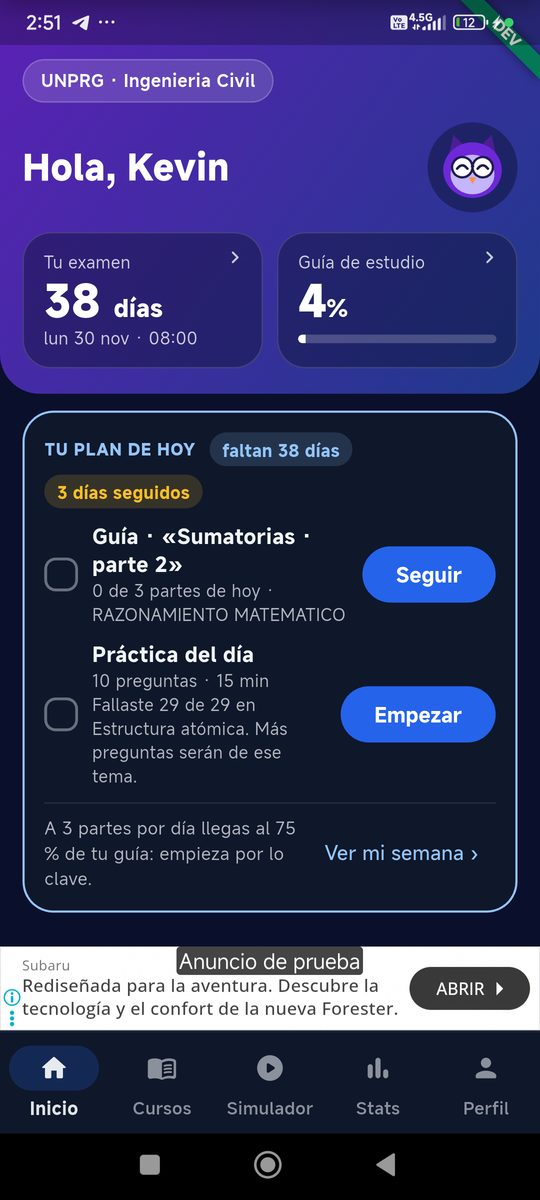
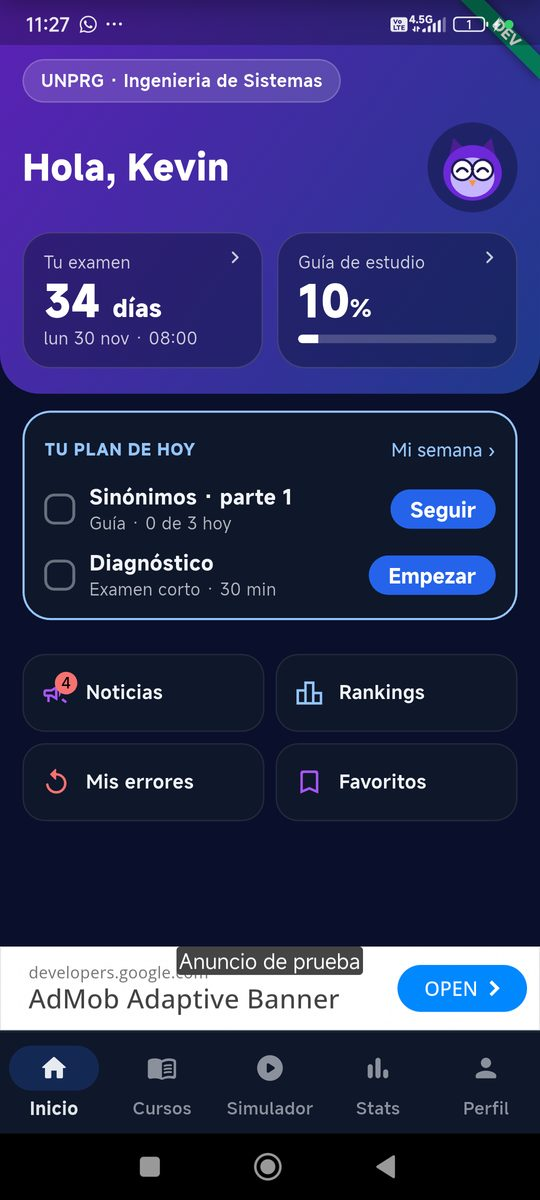
Guías: «Tu plan de hoy» compacta con capturas nuevas

diff --git a/docs/guias/guia_app.html b/docs/guias/guia_app.html
@@ -89,10 +89,10 @@
 </table></div>
 
 <div class="screen" id="inicio-plan-hoy">
-  <figure><img src="img/ini-plan-hoy.jpg" alt="Inicio con Tu plan de hoy"><figcaption>Inicio con plan (TEST, 23-oct-2026).</figcaption></figure>
+  <figure><img src="img/ini-plan-hoy.jpg" alt="Inicio con Tu plan de hoy"><figcaption>Inicio con plan, tarjeta compacta (TEST, 27-oct-2026).</figcaption></figure>
   <div class="body">
     <h3>Tu plan de hoy (con plan)</h3>
-    <p>Si el alumno tiene meta, bajo la cabecera aparece la misma tarjeta «TU PLAN DE HOY» que en el Simulador (ver <a href="#sim-plan">Tu plan de hoy</a>): la parte de la guía que toca, la práctica del día y el ritmo. Sin meta no aparece y el ritmo sigue en la cabecera.</p>
+    <p>Si el alumno tiene meta, bajo la cabecera aparece la misma tarjeta «TU PLAN DE HOY» que en el Simulador (ver <a href="#sim-plan">Tu plan de hoy</a>): la parte de la guía que toca y la práctica del día. En el Inicio no lleva el chip «faltan {n} días» (ya está en «Tu examen», justo arriba). Sin meta no aparece y el ritmo sigue en la cabecera.</p>
   </div>
 </div>
 
@@ -512,22 +512,21 @@ flowchart LR
 
 <div class="screen two" id="sim-plan">
   <figure><img src="img/sim-inicio-sinplan.jpg" alt="Arma tu plan"><figcaption>Sin meta: «Arma tu plan».</figcaption></figure>
-  <figure><img src="img/sim-inicio-plan.jpg" alt="Tu plan de hoy en el Simulador"><figcaption>Con meta: «Tu plan de hoy» (TEST, 23-oct-2026).</figcaption></figure>
+  <figure><img src="img/sim-inicio-plan.jpg" alt="Tu plan de hoy en el Simulador"><figcaption>Con meta: «Tu plan de hoy» compacta (TEST, 27-oct-2026).</figcaption></figure>
   <div class="body">
     <h3>Tu plan de hoy</h3>
-    <p>Sin meta se ve «Arma tu plan» · «Te diré qué practicar cada día según tus errores. Siempre podrás elegir otro examen.» · «Crear mi plan» (abre Tu meta). Con meta, la tarjeta «TU PLAN DE HOY» (también en el Inicio) junta lo que toca hoy:</p>
+    <p>Sin meta se ve «Arma tu plan» · «Te diré qué practicar cada día según tus errores. Siempre podrás elegir otro examen.» · «Crear mi plan» (abre Tu meta). Con meta, la tarjeta «TU PLAN DE HOY» (también en el Inicio) junta lo que toca hoy en poco espacio: una línea de cabecera y cada tarea con un título y un detalle de una línea (lo que no cabe se corta con «…»). El ritmo está en <a href="#sim-tu-semana">Tu semana</a>; el tema débil va corto en el detalle de la práctica.</p>
     <div class="table-wrap"><table>
       <tr><th>Parte</th><th>Mensaje</th><th>Cuándo aparece</th><th>Al tocar</th></tr>
-      <tr><td class="msg">Chips</td><td class="msg">«faltan {n} días» (+ «· por confirmar») · «{n} días seguidos»</td><td>Días hasta la fecha única del examen; «tu examen es hoy» el mismo día; sin fecha no hay chip. Racha si es mayor que 0.</td><td>—</td></tr>
-      <tr><td class="msg">Guía</td><td class="msg">«Guía · «{subtema} · parte {n}»» · «{h} de {m} partes de hoy · {CURSO}» · «Seguir»</td><td>La parte que toca: la última que abriste si aún no está aprobada; si no, la primera sin aprobar empezando por los <b>cursos clave</b> del área de tu carrera y luego por peso. <code>m</code> = el ritmo de hoy; <code>h</code> = partes aprobadas hoy.</td><td>Abre esa parte.</td></tr>
-      <tr><td class="msg">Guía cumplida</td><td class="msg">«Guía de hoy lista: {n} partes» (check verde) · «Seguir»</td><td>Ya aprobaste las <code>m</code> partes de hoy.</td><td>Adelanta la siguiente.</td></tr>
-      <tr><td class="msg">Día sin guía</td><td class="msg">«Hoy no toca guía. Si quieres, adelanta.»</td><td>Hoy no es día de estudio (por los días por semana de tu meta) o es el día del simulacro.</td><td>Abre la siguiente parte.</td></tr>
-      <tr><td class="msg">Guía terminada</td><td class="msg">«¡Terminaste tu guía! Repasa con el Simulador.»</td><td>Todas las partes aprobadas.</td><td>—</td></tr>
-      <tr><td class="msg">Práctica</td><td class="msg">«Práctica del día» · «{10} preguntas · {15} min» + «¿Por qué?» · «Empezar»</td><td>Día normal sin práctica hecha. Ya hecha: «Práctica del día lista» y «Otra».</td><td>Crea «Hoy te toca», <b>siempre con reloj</b>.</td></tr>
-      <tr><td class="msg">Simulacro</td><td class="msg">«★ Simulacro» · «Un examen pasado completo, con su tiempo y puntaje.» · «Empezar»</td><td>Hoy es tu día de simulacro y no entregaste un examen pasado desde el lunes.</td><td>Abre Exámenes pasados.</td></tr>
-      <tr><td class="msg">Diagnóstico</td><td class="msg">«Diagnóstico» · «Empezar»</td><td>Tienes meta y ningún examen del Simulador entregado.</td><td>Abre el Diagnóstico.</td></tr>
-      <tr><td class="msg">Ritmo</td><td class="msg">«{n} partes por día de estudio y terminas tu guía antes del examen.» / «A {n} partes por día llegas al {p} % de tu guía: empieza por lo clave.»</td><td>Partes sin aprobar al empezar el día ÷ días de estudio hasta la víspera del examen, hacia arriba, con tope de 3 <span class="chip info">ADMIN</span> («Tope de partes por día», 1–10). Si el tope no alcanza, la segunda frase con el % de la guía que se cubre. Se recalcula cada día.</td><td>—</td></tr>
-      <tr><td class="msg">Enlace</td><td class="msg">«Ver mi semana ›»</td><td>Siempre con meta.</td><td>Abre <a href="#sim-tu-semana">Tu semana</a>.</td></tr>
+      <tr><td class="msg">Chips</td><td class="msg">«faltan {n} días» (+ «· por confirmar») · «{n} días seguidos»</td><td>Días hasta la fecha única del examen; «tu examen es hoy» el mismo día; sin fecha no hay chip; en el Inicio no se muestra. Racha si es mayor que 0.</td><td>—</td></tr>
+      <tr><td class="msg">Guía</td><td class="msg">«{subtema} · parte {n}» · «Guía · {h} de {m} hoy» · «Seguir»</td><td>La parte que toca: la última que abriste si aún no está aprobada; si no, la primera sin aprobar empezando por los <b>cursos clave</b> del área de tu carrera y luego por peso. <code>m</code> = el ritmo de hoy; <code>h</code> = partes aprobadas hoy.</td><td>Abre esa parte.</td></tr>
+      <tr><td class="msg">Guía cumplida</td><td class="msg">«{subtema} · parte {n}» · «Guía · {m} de {m} hoy» (check verde) · «Seguir» (botón con borde)</td><td>Ya aprobaste las <code>m</code> partes de hoy.</td><td>Adelanta la siguiente.</td></tr>
+      <tr><td class="msg">Día sin guía</td><td class="msg">«{subtema} · parte {n}» · «Guía · hoy descansas, puedes adelantar» · «Seguir» (botón con borde)</td><td>Hoy no es día de estudio (por los días por semana de tu meta) o es el día del simulacro.</td><td>Abre la siguiente parte.</td></tr>
+      <tr><td class="msg">Guía terminada</td><td class="msg">«¡Guía terminada!» · «Repasa con el Simulador» (check verde)</td><td>Todas las partes aprobadas.</td><td>—</td></tr>
+      <tr><td class="msg">Práctica</td><td class="msg">«Práctica del día» · «{10} preguntas · refuerza {tema}» (con tema débil y «Mostrar ¿Por qué?» encendido <span class="chip info">ADMIN</span>) o «{10} preguntas · {15} min» · «Empezar»</td><td>Día normal sin práctica hecha. Ya hecha: «Práctica del día lista» y «Otra».</td><td>Crea «Hoy te toca», <b>siempre con reloj</b>.</td></tr>
+      <tr><td class="msg">Simulacro</td><td class="msg">«★ Simulacro» · «Un examen pasado completo» · «Empezar»</td><td>Hoy es tu día de simulacro y no entregaste un examen pasado desde el lunes.</td><td>Abre Exámenes pasados.</td></tr>
+      <tr><td class="msg">Diagnóstico</td><td class="msg">«Diagnóstico» · «Examen corto · {30} min» <span class="chip info">ADMIN</span> · «Empezar»</td><td>Tienes meta y ningún examen del Simulador entregado.</td><td>Abre el Diagnóstico.</td></tr>
+      <tr><td class="msg">Enlace</td><td class="msg">«Mi semana ›» (arriba a la derecha)</td><td>Siempre con meta.</td><td>Abre <a href="#sim-tu-semana">Tu semana</a>.</td></tr>
     </table></div>
     <p><b>Días de estudio:</b> tantos días como «días a la semana» de tu meta, en este orden de preferencia: lunes, martes, jueves, viernes, miércoles, domingo, sábado; el día del simulacro no es de estudio salvo con 7 días.</p>
     <h4>El recuadro «¿Por qué?»</h4>
@@ -1122,6 +1121,7 @@ flowchart LR
   <li><b>19-oct-2026</b> · Candado del video renovado: tarjeta compacta con el degradado de la cabecera y el búho guiñando, «Desbloquea la explicación · Ganas +5 XP · te quedan 25 XP hoy», «Ver video · +5 XP» y «Premium». Ver el video completo da XP (5 por explicación, tope de 25 al día, una vez por pregunta, ajustables en el admin) y abre la explicación con el búho feliz y «¡Así se resuelve!».</li>
   <li><b>19-oct-2026</b> · Revisión por pregunta renovada (examen de parte, de dominio y Simulador): filtros «Falladas · En blanco · Correctas · Todas», mapa de casillas para saltar a cualquier pregunta, tarjeta que se entiende cerrada («Marcaste B · era C» y el inicio del enunciado), todas las alternativas marcadas al abrirla (rojo la tuya, verde la correcta, gris en blanco) y, en el Simulador, «Ver en la guía» por pregunta.</li>
   <li><b>19-oct-2026</b> · Anuncios: el banner va también en Cursos, Simulador (portada), Stats y Perfil (siete pantallas, cada una con su interruptor en Configuración → Anuncios) y se comparte entre pestañas para aparecer al instante; el anuncio de pantalla completa sale al terminar cada examen, antes del resultado (de fábrica sin espera ni primer examen libre; ambos siguen siendo ajustes del admin). App #123, admin #107.</li>
+  <li><b>27-oct-2026</b> · «Tu plan de hoy» compacta (Inicio y Simulador): cabecera en una línea con «Mi semana ›», cada tarea con título y detalle de una línea, botones más pequeños, sin la frase del ritmo (queda en Tu semana) y sin el chip de días en el Inicio. Capturas nuevas.</li>
   <li><b>23-oct-2026</b> · Plan personalizado (app #137, admin #121): fecha única del examen (universidad o mes de la meta «por confirmar»), «Tu plan de hoy» en Inicio y Simulador (parte de la guía que toca, cursos clave primero, ritmo con tope configurable, práctica del día), pantalla «Tu semana», «Tu meta» corta con vista previa del ritmo y sin recordatorio, y la práctica del día elige cursos según su peso en el área del examen. Probado en el teléfono; capturas nuevas. Corregido: «{n} %» ya no se parte en dos líneas y el chip del día del examen dice «tu examen es hoy».</li>
   <li><b>19-oct-2026</b> · Probado en el teléfono (TEST): banner de prueba en el Inicio, pantalla Premium, tarjeta del Perfil, premium regalado (sin banner), «Restaurar compras» y el aviso del tope diario de exámenes pasados; capturas reales en «Anuncios» y «Plan Premium». Corregido el banner que tomaba media pantalla y dejaba el Inicio vacío (app #122).</li>
   <li><b>19-oct-2026</b> · Plan Premium (Fase 5B de costos): tarjeta en el Perfil, pantalla <code>/profile/premium</code> con los dos planes de Google Play, restaurar compras y estado vigente; tope diario de exámenes pasados para la cuenta gratuita con aviso «Exámenes pasados de hoy»; «O hazte Premium» bajo el candado del video; el premium apaga anuncios, candados y topes. En TEST las compras siguen deshabilitadas (sin Play Console); el admin regala premium desde la ficha del alumno.</li>

diff --git a/PROGRESO.md b/PROGRESO.md
@@ -2,11 +2,12 @@
 
 > Actualizar en cada desarrollo, commit o PR (también `../iya-app/PROGRESO.md`).
 
-_Última actualización: 2026-10-23_
+_Última actualización: 2026-10-27_
 
 > **Retomar en otra máquina:** `docs/contexto_claude/README.md` tiene el punto exacto donde quedamos (2026-10-19), las reglas de trabajo, los pendientes y una copia de la memoria de Claude.
 
 ## Estado actual
+- **«Tu plan de hoy» compacta (2026-10-27, rama `codex/plan-hoy-compacto`):** solo app (detalle en `../iya-app/PROGRESO.md`). Aquí: guía de la app (tabla de la tarjeta con los textos cortos, sin la fila del ritmo, capturas `ini-plan-hoy.jpg` y `sim-inicio-plan.jpg` nuevas). Sin cambios de Functions, reglas ni configuración.
 - **Plan personalizado validado en el teléfono (2026-10-23):** fusionado (admin #121, app #137) y Functions desplegadas en TEST. En el teléfono: «Tu plan de hoy» en Inicio y Simulador, «Tu semana», «Tu meta» con la fecha publicada por la UNPRG y vista previa del ritmo (7 días → 75 %, 5 días → 51 %), y una práctica del día real: 6 preguntas de los 3 temas débiles y 4 de Razonamiento Verbal y Razonamiento Matemático (22 % del área E cada uno) más Geografía. Correcciones: espacio sin salto antes de «%» en los textos del ARB (el «75 %» se partía) y el chip del día del examen dice «tu examen es hoy» (antes «tu examen es este mes»). Guías vivas actualizadas con capturas reales (Guía v33, Arquitectura v38). Pendiente: fase 6 (otras universidades) espera los prospectos de Kevin.
 - **Plan personalizado (2026-10-23, rama `codex/plan-personalizado`):** fases 2–4 en la app (fecha única, Tu meta corta, Tu plan de hoy y Tu semana; ver `../iya-app/PROGRESO.md`). Admin: ajuste `{config}/simulator.plan.maxPartsPerDay` (tope de partes de la guía por día, 3 de fábrica, 1–10) en `plan_settings.dart`, su tarjeta y el catálogo. **Fase 5 (Functions)**: «Hoy te toca» elige el resto de sus preguntas de tres cursos al azar con probabilidad según su peso en el área del examen (`functions/src/exam_areas.ts`: `areaCourseWeights`, `weightedCourses`; `SimulatorService.planCourses`, +1 lectura de la universidad por práctica); sin área, al azar como antes. Contratos `simulator_contract.md` §4 y `exam_areas_contract.md` actualizados. Pruebas: Functions `test/exam_areas.test.ts`, admin `plan_settings_test.dart`.
 - **Áreas del examen (2026-10-23, rama `codex/areas-examen`, fase 1):** Kevin decidió registrar el peso de cada curso **por área** (grupo académico) de la universidad. Contrato `docs/exam_areas_contract.md` (copia en la app). Universidad: `examAreas[]` (`id`, `name`, `source`, `rows[]` con `subject`, `courseId`, `questions`, `points`, `key`) y `careerDetails.{id}.examAreaId`. Admin: `ExamArea`/`ExamAreaRow` en `domain/university_profile.dart`, `UniversityRepo.setExamAreas` (quita el área a carreras huérfanas), pestaña «Áreas del examen» de la ficha (`widgets/exam_areas_card.dart`: tabla con peso %, ★ clave, copiar de otra área) y «Área del examen» en el diálogo de cada carrera. Cargado en TEST desde el prospecto UNPRG 2026-II (Anexo 1): grupos A–F con sus preguntas y puntos; Ing. Civil y Sistemas → E; claves sugeridas (Kevin puede cambiarlas). Pruebas `test/exam_areas_test.dart`. Probado en el teléfono (Ing. Civil → grupo E: los tres grupos se ven bien); Guía v32 con las capturas reales. Siguiente: plan de hoy y práctica del día priorizados por peso; fecha única del examen.
